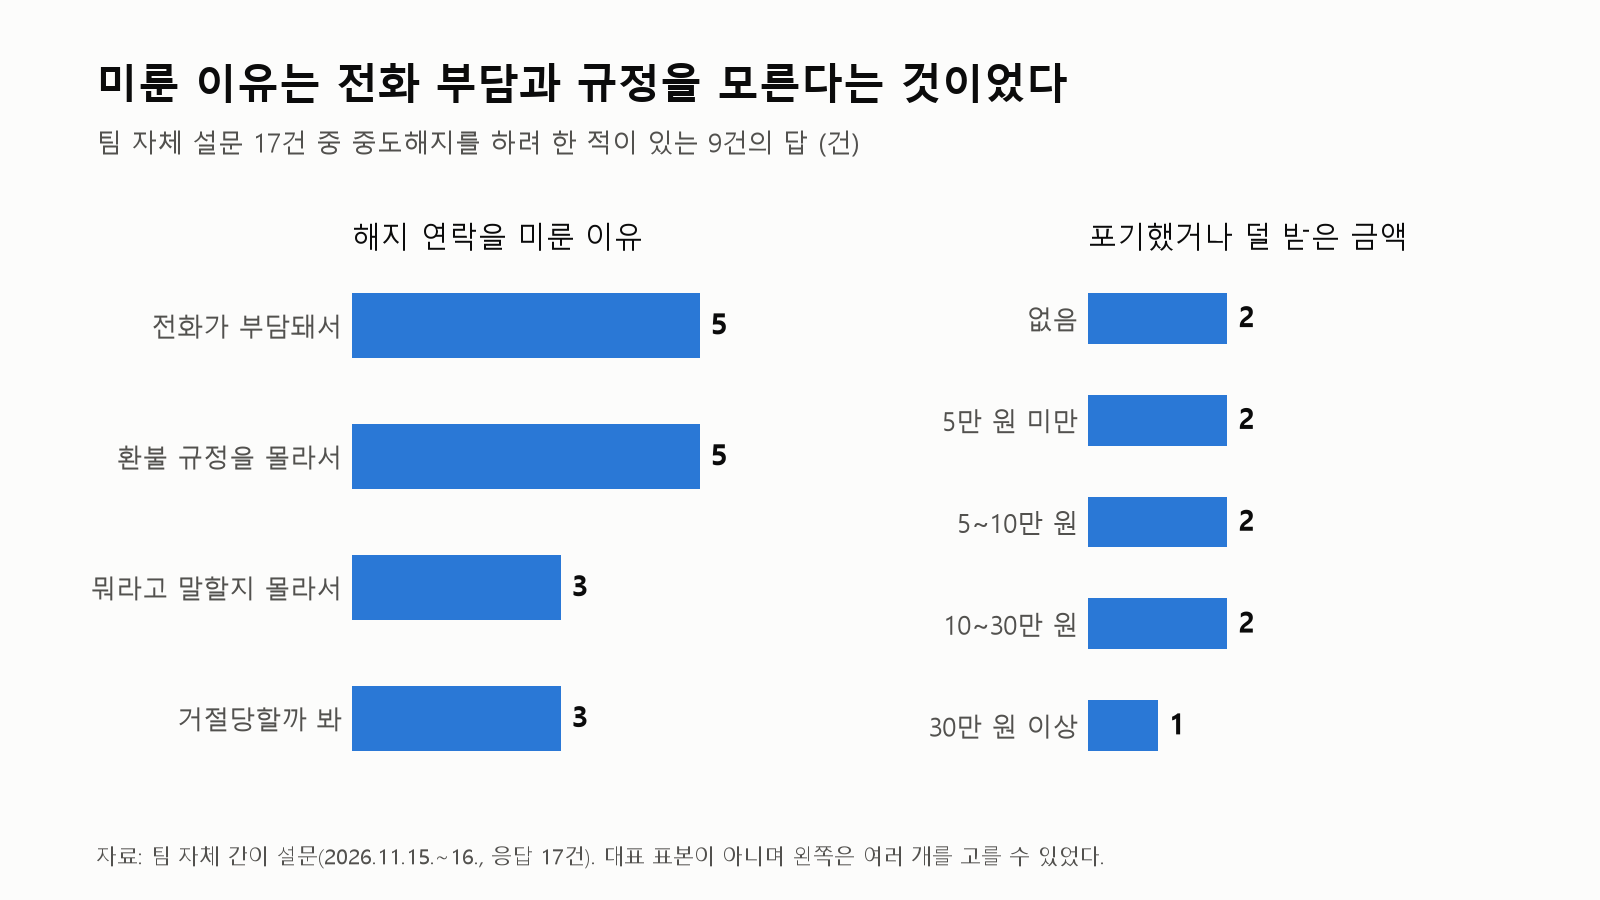
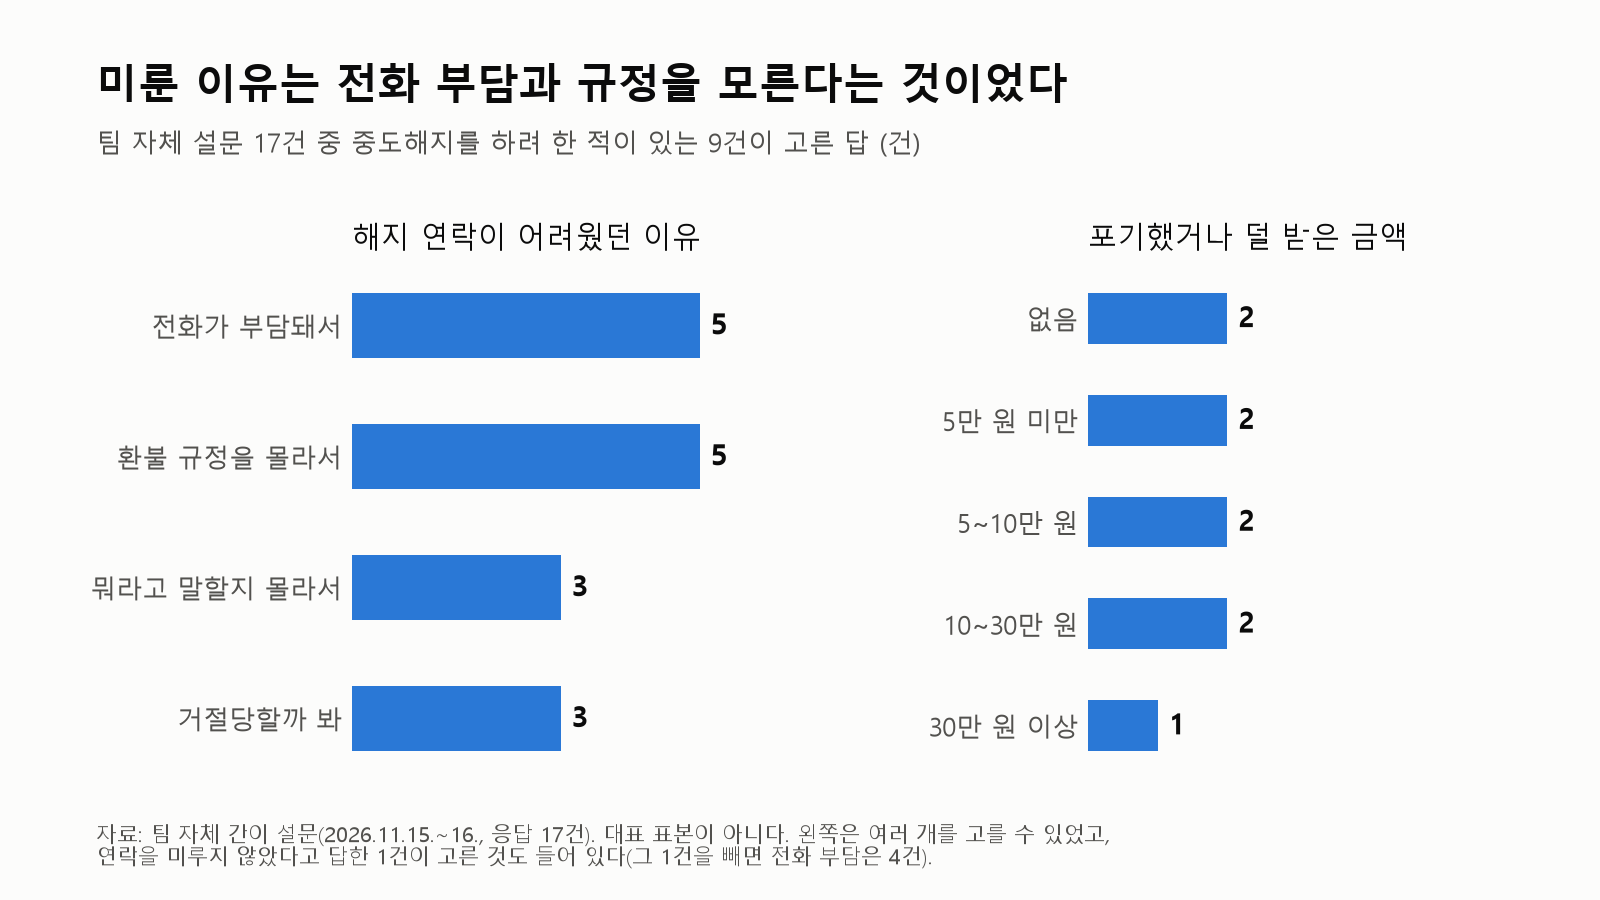
docs: #129 리뷰 반영. 이름·심사용 주소는 제출용 워드에서만 채우고, 숫자와 문장을 고친다
- 팀원 이름을 자리 표시로 바꾸고 build_docx.py가 로컬의 제출값.json에서 채운다
- 핵심 숫자 그림: 49.7%를 소비자원 원문 표현(절반 미만)으로, 보도 수치는 보도라고 표시
- 고시 설명(도달한 시점까지), 고시 적용 업종, 사건당 비용 0.02달러, 설문 해석 문장
- AI가 켜져 있으면 사용자 입력이 외부 모델로 간다는 점, 10번 그림 출처

Changed region(s): [[0.0625, 0.9022, 0.6875, 0.9644], [0.2812, 0.2489, 0.4375, 0.28], [0.4688, 0.1244, 0.5625, 0.1867]]

diff --git a/docs/소개서/make_charts.py b/docs/소개서/make_charts.py
@@ -135,9 +135,10 @@ clean(ax, "x"); ax.spines["bottom"].set_visible(False); ax.tick_params(axis="y",
 save(fig, "6_상담에서_피해구제까지.png")
 
 # 7. 자체 설문 (작은 표본)
-fig = frame("미룬 이유는 전화 부담과 규정을 모른다는 것이었다", "팀 자체 설문 17건 중 중도해지를 하려 한 적이 있는 9건의 답 (건)",
-            "자료: 팀 자체 간이 설문(2026.11.15.~16., 응답 17건). 대표 표본이 아니며 왼쪽은 여러 개를 고를 수 있었다.")
-for k, (title, rows, box) in enumerate((("해지 연락을 미룬 이유", SURVEY_WHY, [0.22, 0.14, 0.27, 0.56]),
+fig = frame("미룬 이유는 전화 부담과 규정을 모른다는 것이었다", "팀 자체 설문 17건 중 중도해지를 하려 한 적이 있는 9건이 고른 답 (건)",
+            "자료: 팀 자체 간이 설문(2026.11.15.~16., 응답 17건). 대표 표본이 아니다. 왼쪽은 여러 개를 고를 수 있었고,\n"
+            "연락을 미루지 않았다고 답한 1건이 고른 것도 들어 있다(그 1건을 빼면 전화 부담은 4건).")
+for k, (title, rows, box) in enumerate((("해지 연락이 어려웠던 이유", SURVEY_WHY, [0.22, 0.14, 0.27, 0.56]),
                                          ("포기했거나 덜 받은 금액", SURVEY_LOSS, [0.68, 0.14, 0.27, 0.56]))):
     ax = fig.add_axes(box)
     names = [n for n, _ in rows][::-1]; vals = [v for _, v in rows][::-1]
@@ -149,11 +150,11 @@ for k, (title, rows, box) in enumerate((("해지 연락을 미룬 이유", SURVE
 save(fig, "7_자체_설문.png")
 
 # 8. 핵심 숫자
-fig = frame("한눈에 보는 헬스장 환불 분쟁", "공식 통계에서 뽑은 다섯 가지 숫자",
-            "자료: 한국소비자원 보도자료(2025.5.15.)와 그 보도, 문화체육관광부 「전국 등록·신고 체육시설업 현황」(2024년 말 기준).\n"
-            "평균 계약 금액은 보도에 따라 약 120만 원 또는 약 132만 원으로 전해졌다.")
-tiles = [(f"{RELIEF[2024]:,}건", "2024년 헬스장\n피해구제 신청"), ("92.0%", "계약해지 관련 분쟁\n('22~'25.3 신청 건)"),
-         ("49.7%", "환급·배상을 못 받은\n신청 ('22~'25.3)"), ("약 120만 원", "피해구제 사건의\n평균 계약 금액"),
+fig = frame("한눈에 보는 헬스장 환불 분쟁", "공식 통계와 보도에서 뽑은 다섯 가지 숫자",
+            "자료: 한국소비자원 보도자료(2025.5.15.), 문화체육관광부 「전국 등록·신고 체육시설업 현황」(2024년 말 기준).\n"
+            "2024년 건수와 평균 계약 금액은 그 보도자료를 다룬 언론 보도의 값이다(평균 금액은 보도에 따라 약 120만 원 또는 약 132만 원).")
+tiles = [(f"{RELIEF[2024]:,}건", "2024년 헬스장\n피해구제 신청(보도)"), ("92.0%", "계약해지 관련 분쟁\n('22~'25.3 신청 건)"),
+         ("절반 미만", "환급·배상으로 해결된\n신청 ('22~'25.3)"), ("약 120만 원", "피해구제 사건의\n평균 계약 금액(보도)"),
          (f"{GYMS[2024]:,}곳", "전국 헬스장 수\n(2024년 말)")]
 ax = fig.add_axes([0.05, 0.16, 0.90, 0.60]); ax.axis("off"); ax.set_xlim(0, 5); ax.set_ylim(0, 1)
 for i, (num, label) in enumerate(tiles):

diff --git a/docs/소개서/build_docx.py b/docs/소개서/build_docx.py
@@ -1,5 +1,6 @@
 """소개서.md → 소개서.docx. 같은 폴더에서 `python build_docx.py`.
 마크다운을 HTML로 바꿔 워드로 저장한 뒤(md2docx_img.ps1), 그림 자리를 실제 그림으로 바꾸고 작성자 속성을 비운다."""
+import json
 import re
 import subprocess
 import tempfile
@@ -16,6 +17,14 @@ CSS = ("body{font-family:'맑은 고딕';font-size:10.5pt;line-height:1.5}h1{fon
        "th{background:#eee}code{font-family:Consolas;background:#fff2cc}blockquote{color:#555}")
 
 md = re.sub(r"!\[[^\]]*\]\(([^)]+)\)", r"[[IMG:\1]]", SRC.read_text(encoding="utf-8"))
+# 저장소에 적지 않는 값(팀원 이름, 심사용 주소)은 같은 폴더의 제출값.json에서 채운다. 이 파일은 .gitignore로 빠진다.
+# 예: {"[이름 A]": "…", "[이름 B]": "…", "[이름 C]": "…", "[심사용 주소]": "https://…/unlock/…"}
+LOCAL = HERE / "제출값.json"
+if LOCAL.exists():
+    for key, value in json.loads(LOCAL.read_text(encoding="utf-8")).items():
+        md = md.replace(f"`{key}`", value)
+else:
+    print("제출값.json이 없어 이름과 심사용 주소 자리를 그대로 둔다")
 html = Path(tempfile.gettempdir()) / "intro_draft.html"
 html.write_text(f"<html><head><meta charset='utf-8'><style>{CSS}</style></head><body>"
                 + markdown.markdown(md, extensions=["tables", "fenced_code"]) + "</body></html>", encoding="utf-8")

diff --git a/docs/소개서/출처.md b/docs/소개서/출처.md
@@ -13,7 +13,7 @@
 | `5_헬스장과_필라테스.png` | 필라테스 분쟁은 2년 새 54% 늘었다(헬스장 32%) | 시장(넓힐 곳) |
 | `6_상담에서_피해구제까지.png` | 피해구제 신청 건수는 상담 건수의 5분의 1이다 | 지금의 대안과 빈틈 |
 | `7_자체_설문.png` | 팀 설문에서 미룬 이유와 덜 받은 금액 | 문제(작은 표본) |
-| `8_핵심_숫자.png` | 다섯 숫자 요약 | 첫 쪽 |
+| `8_핵심_숫자.png` | 다섯 숫자 요약(공식 통계 셋, 보도 수치 둘) | 첫 쪽 |
 
 ## 원자료
 
@@ -49,6 +49,7 @@
 ## 화면 그림
 
 - `9_화면_다섯_단계.png`: `main` `76f8369`를 로컬에서 AI 없이(가짜 LLM) 띄워 390×844로 찍은 다섯 화면을 이어 붙였다. 가상 계약서다.
+- `10_화면_AI.png`: 2026-11-20에 B가 `main` `76f8369`를 로컬에서 실제 모델(`gpt-6.1-terra`)로 띄워 390×844로 찍은 네 컷이다(조언 두 컷, 답장 읽기 확정, 답장 분석). 호출 3회, 6,319토큰. 가상 계약서와 지어낸 답장이다.
 
 ## 쓸 때 조심할 것
 
